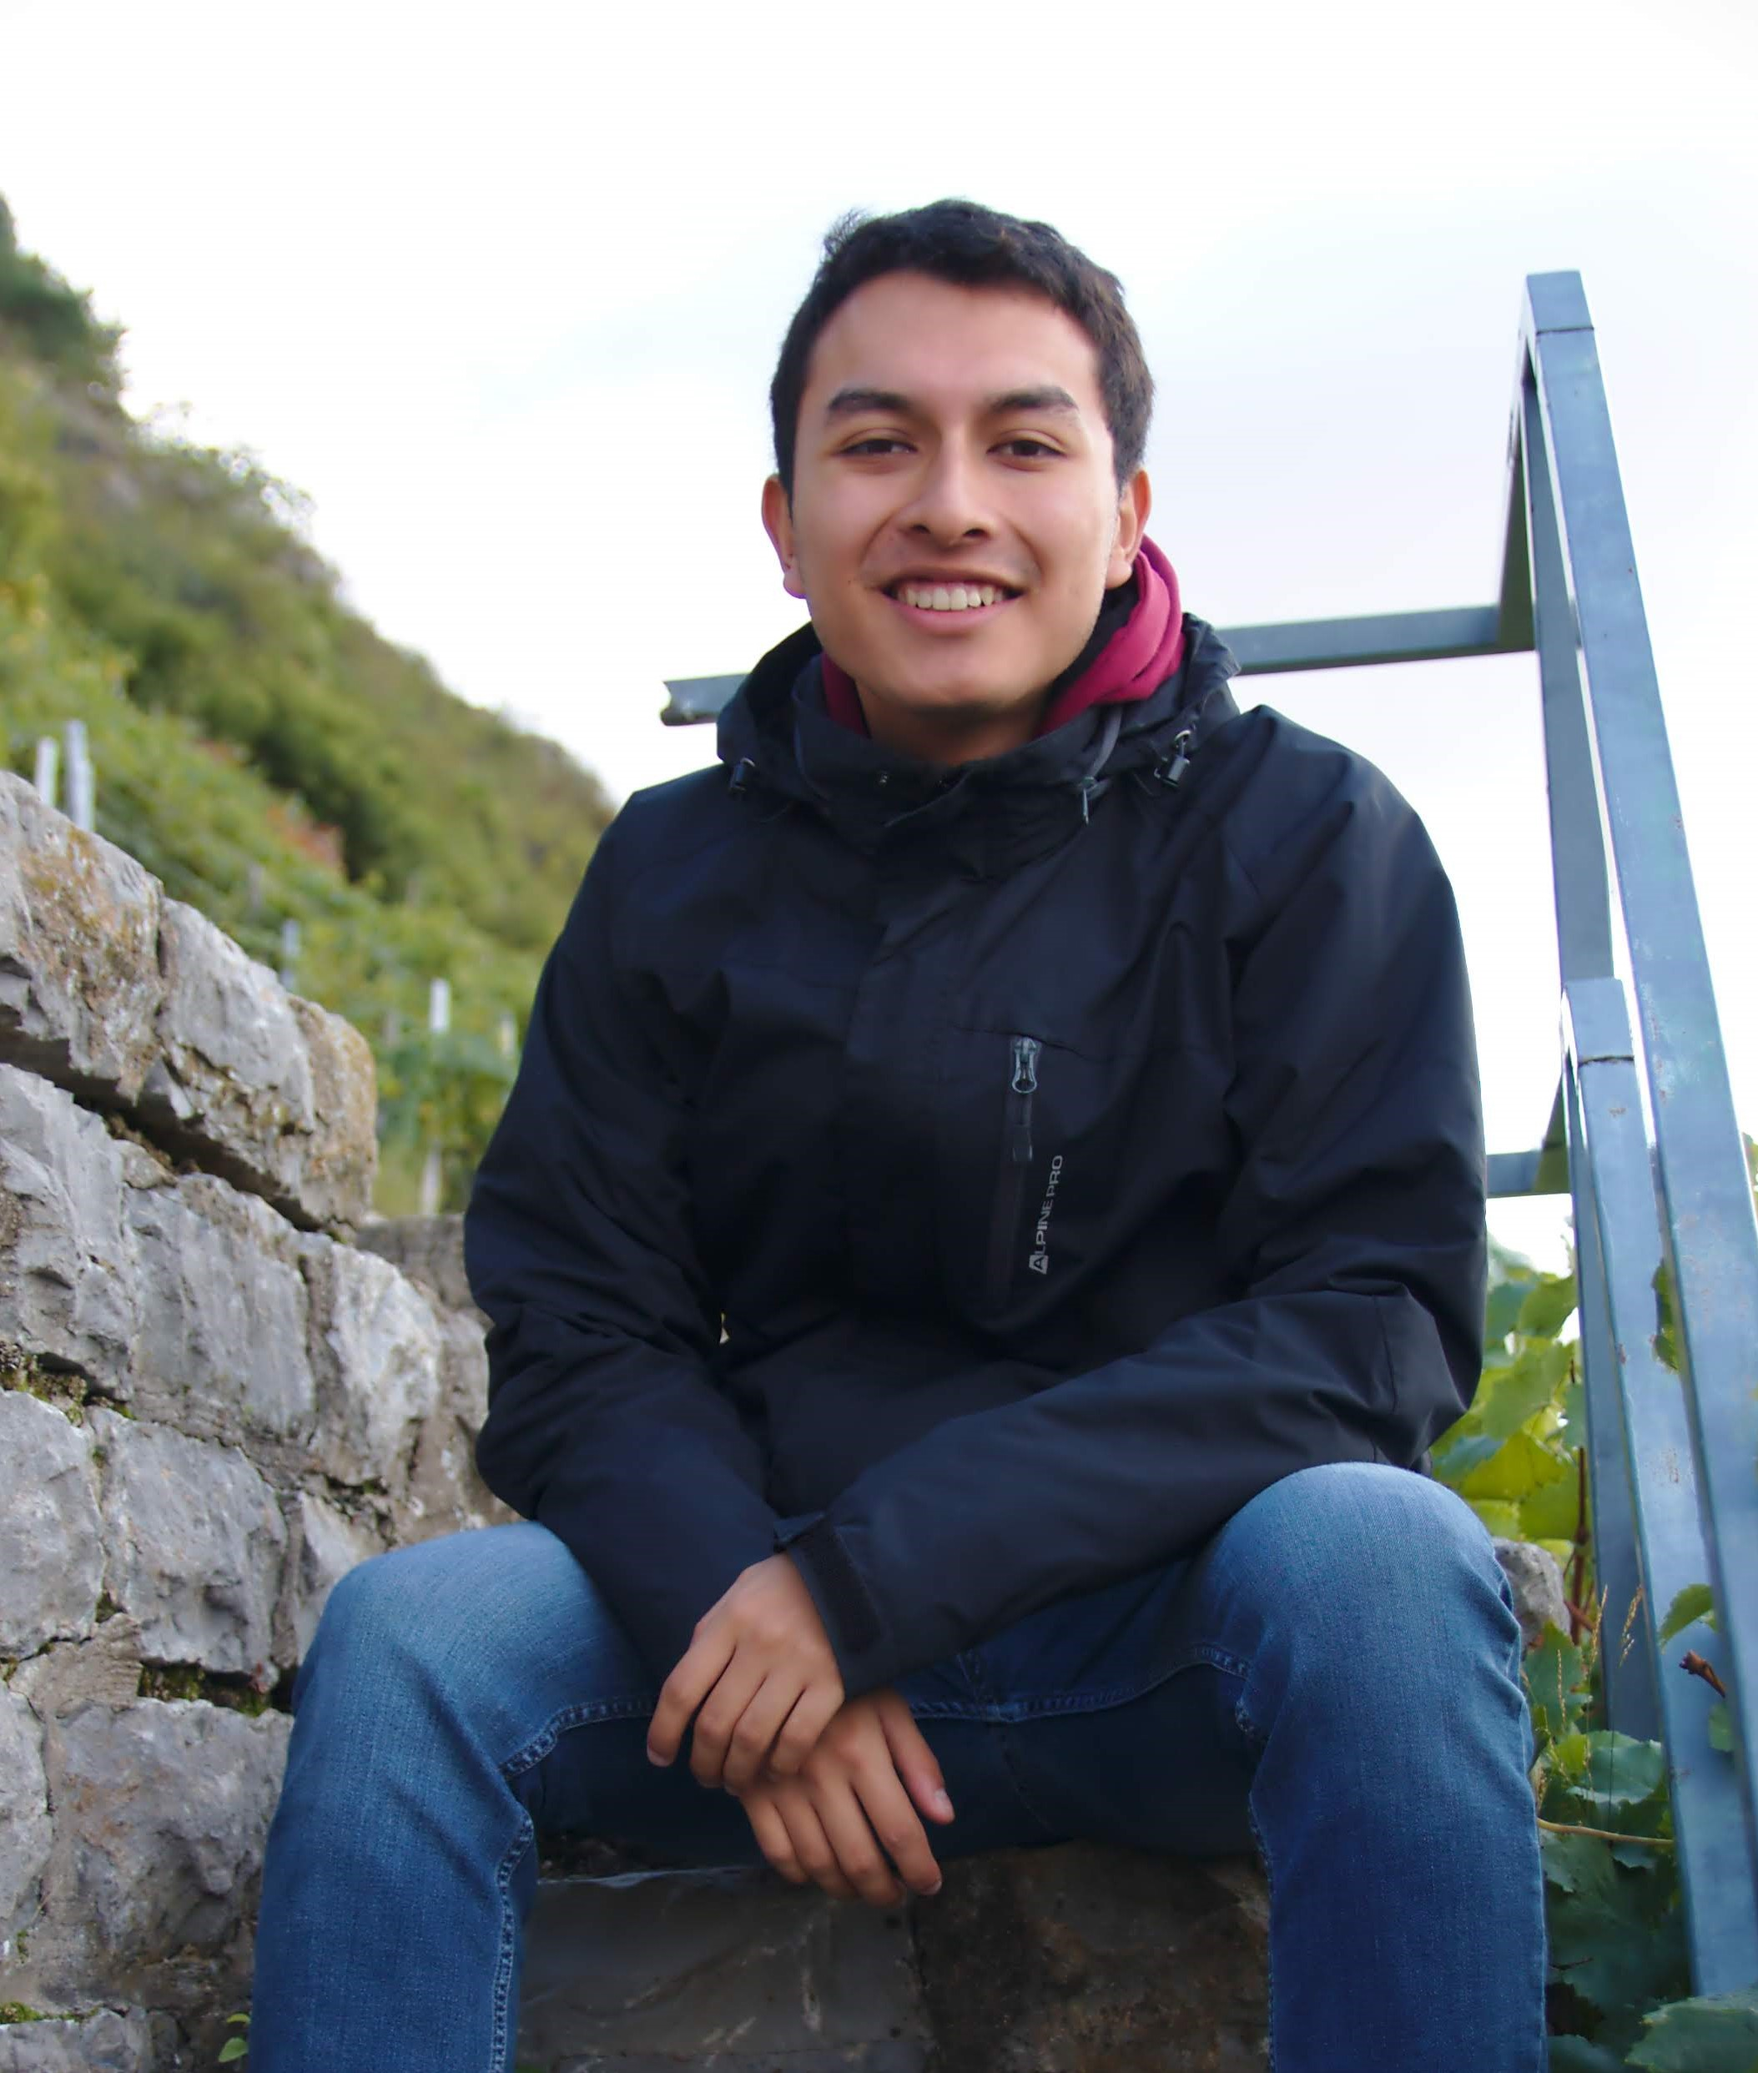
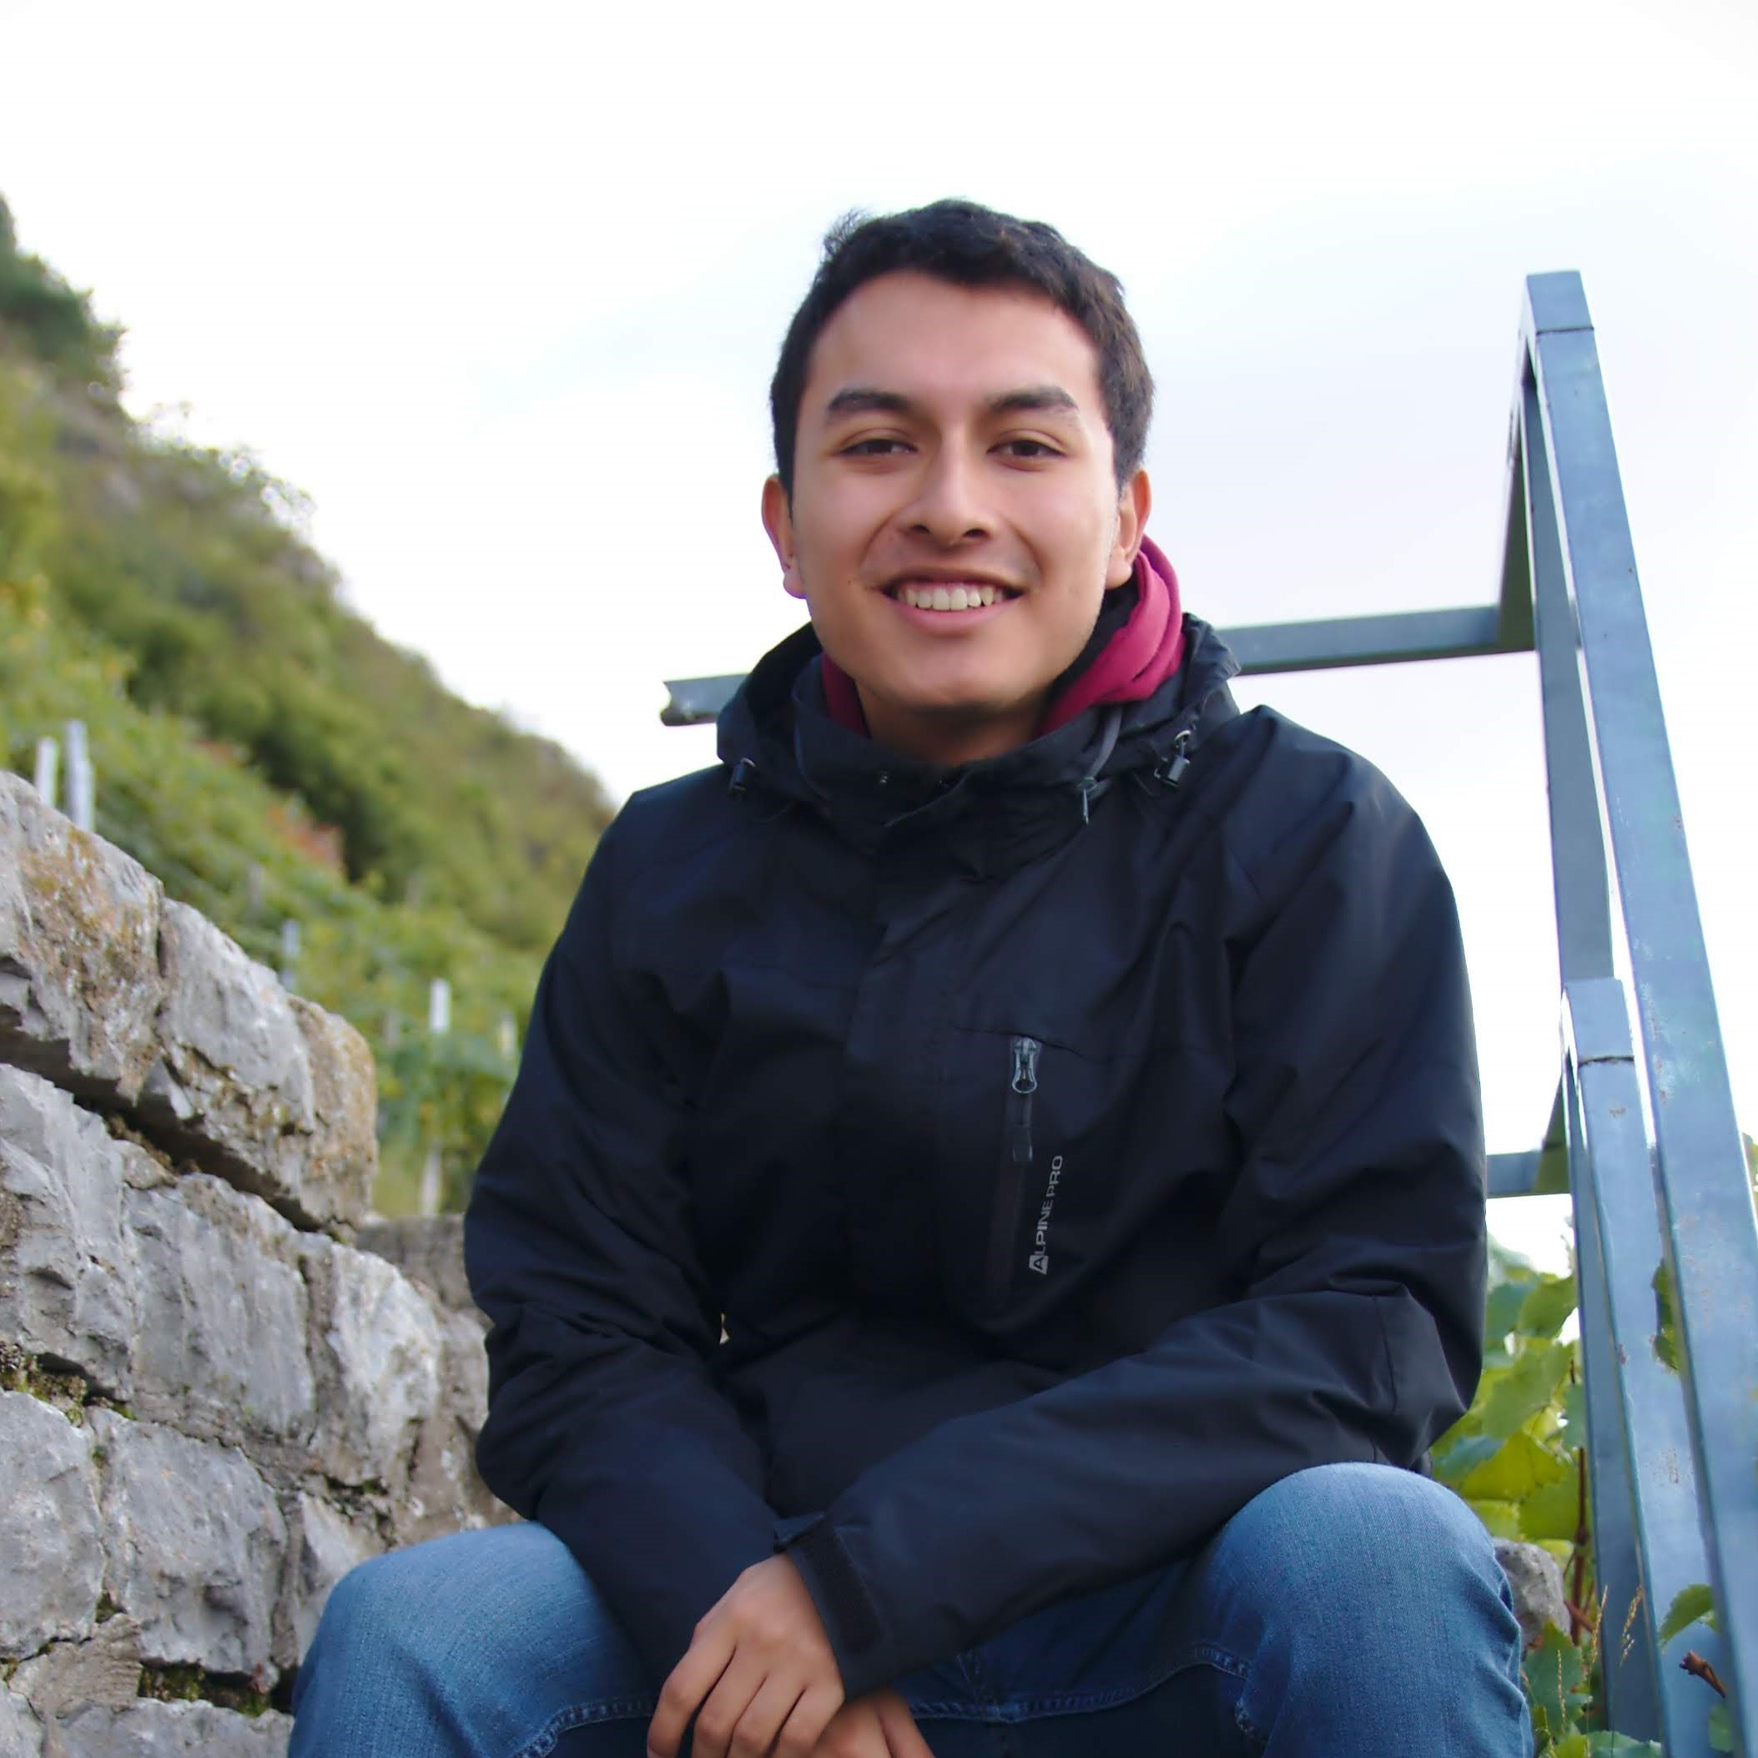
Diseño responsive

diff --git a/src/about/tarjeta/Tarjeta.scss b/src/about/tarjeta/Tarjeta.scss
@@ -1,8 +1,8 @@
 
 .card-vinyl {
     /* styles for the vinyl record card */
-    width: 70%;
-    height: 400px;
+    width: 78%;
+    height: 160%;
     background: #282828;
     border-radius: 0;
     position: relative;
@@ -12,36 +12,32 @@
     };
 .card-image {
     /* create a central square*/
-    width: 30%;
-    height: 28%;
-    background-color: #f3f3f3;
+    width: 45%;
+    height: 25%;
+    background-color: transparent;
     border-radius: 0;
-    position: absolute;
-    top: 15%;
+    position:absolute;
+    top: 20%;
     background-size: cover;
-    left: 34%;
-    box-shadow:
-        inset -5px -5px 5px #fff5,
-        inset 5px 5px 5px #0005;
-
+    left: 30%;
 }
 
 .card-title{
-    font-size: 110%;
+    font-size: 90%;
 }
 .container{
-    width: 100%;
+    width: 80%;
     padding: 0%;
 }
 .card-content {
     /* adjust content style*/
-    padding: 20px;
+    padding: 5%;
     color: #fff;
     background-color: rgba(0, 0, 0, 0.4);
     position: absolute;
     bottom: 0;
     width: 100%;
-    font-size: 1.5rem;
+    font-size: 150%;
     font-weight: bold;
     font-family: 'Arial', sans-serif;
 }
@@ -49,8 +45,8 @@
     /* existing styles */
     background-color: #333;
     border-radius: 0;
-    padding: 5px;
-    font-size: 14px;
+    padding: 2%;
+    font-size: 14%;
     text-align: center;
     font-family: 'Arial', sans-serif;
 }
@@ -58,7 +54,7 @@
     /* existing styles */
     font-weight: bold;
     color: #ccc;
-    margin-right: 15px;
+    margin-right: 5%;
     display:inline-block;
 }
 h3{
@@ -80,11 +76,139 @@ h3{
 .info{
     margin-left: 5%;
     width: 90%;
-    margin-top: 37%;
+    margin-top: 50%;
 
 }
 .texto{
     margin-top: 5%;
     width: 100%;
     font-size: 80%;
+}
+.fotos_about{
+    width: 90%;
+    border-radius: 50%;
+    margin-top: -10%;
+}
+.card-artist{
+    font-size: 80%;
+}
+@media only screen and (max-width: 768px){
+    .card-vinyl{
+        width: 110%;
+    }
+    .container{
+        padding-top: 5%;
+        padding-bottom: 5%;
+    }
+    .card-image{
+        width: 60%;
+        height: 50%;
+        margin-left: -5%;
+    }
+    .card-title{
+        font-size: 90%;
+    }
+    .card-artist{
+        font-size: 60%;
+    }
+    .info{ 
+
+        padding: 10%;
+    }
+    .texto{
+        margin-top: -10%;
+        font-size: 80%;
+    }
+    .iconos{
+        display:flex;
+        align-items: center;
+        justify-content: center;
+        padding-top: 5%;
+        margin-left: 5%;
+        .iconos_redes{
+            width: 30%;
+            font-size: 110%;
+        }
+    }
+    .fotos_about{
+        width: 80%;
+        border-radius: 50%;
+        margin-top: -10%;
+    }
+    .espacio{
+        margin-left: 5%;
+        width: 100%;
+        margin-top: 65%;
+        padding-bottom: 60%;
+    }
+    .card-content {
+        /* adjust content style*/
+        padding: 5%;
+        color: #fff;
+        background-color: rgba(0, 0, 0, 0.4);
+        width: 100%;
+        font-size: 150%;
+        font-weight: bold;
+        font-family: 'Arial', sans-serif;
+    }
+}
+@media only screen and (min-width: 768px) and (max-width: 991px){
+    .card-vinyl{
+        width: 100%;
+    }
+    .container{
+        padding-top: 5%;
+        padding-bottom: 5%;
+    }
+    .card-image{
+        width: 60%;
+        height: 50%;
+        margin-left: -5%;
+    }
+    .card-title{
+        font-size: 90%;
+    }
+    .card-artist{
+        font-size: 60%;
+    }
+    .info{ 
+
+        padding: 10%;
+    }
+    .texto{
+        margin-top: -10%;
+        font-size: 110%;
+    }
+    .iconos{
+        display:flex;
+        align-items: center;
+        justify-content: center;
+        padding-top: 5%;
+        margin-left: 5%;
+        .iconos_redes{
+            width: 30%;
+            font-size: 110%;
+        }
+    }
+    .fotos_about{
+        width: 80%;
+        border-radius: 50%;
+        margin-top: -10%;
+    }
+    .espacio{
+        margin-left: 4%;
+        width: 100%;
+        margin-top: 65%;
+        padding-bottom: 30%;
+    }
+    .card-content {
+        /* adjust content style*/
+        padding: 5%;
+        color: #fff;
+        background-color: rgba(0, 0, 0, 0.4);
+        width: 100%;
+        font-size: 150%;
+        font-weight: bold;
+        font-family: 'Arial', sans-serif;
+    }
 }

diff --git a/src/about/About.jsx b/src/about/About.jsx
@@ -4,16 +4,16 @@ import Tarjeta from './tarjeta/Tarjeta';
 
 const About = () => {
   return (
+    <div className='about'>
     <div className='container'>
         <div className='superiores'>
-            
-            <Tarjeta nombre="Jose Andres Gavilanes" puesto="Full-Stack Developer" foto='./images/Pepe.jpeg' linkG='https://github.com/joseandresgavilanes' linkl='https://www.linkedin.com/in/jose-andres-gavilanes-2954691b5/' linki='https://www.instagram.com/andres_gavilanes1/' detalle="Full Stack (React | Node | Springboot) and pixel-perfect developer with 3 years of experience in UI development."/>
+            <Tarjeta className="primera" nombre="Jose Andres Gavilanes" puesto="Full-Stack Developer" foto='./images/Pepe.jpeg' linkG='https://github.com/joseandresgavilanes' linkl='https://www.linkedin.com/in/jose-andres-gavilanes-2954691b5/' linki='https://www.instagram.com/andres_gavilanes1/' detalle="Full Stack (React | Node | Springboot) and pixel-perfect developer with 3 years of experience in UI development."/>
             <Tarjeta nombre="Alexander Cangas" puesto="Systems engineer" foto='./images/Alexander.jpeg' linkG='https://github.com/xander06' linkl='https://www.linkedin.com/in/alexander-c-00a2967b/' linki='https://www.instagram.com/xander0684/' detalle="Hi, I am a Computer Systems Engineer. Systems Assistant at Vehicle Dealership. Learn Java  and React"/>
-            
             </div>
             <div className='inferior'>
             <Tarjeta nombre="Adrian Bastidas" puesto="Systems engineering student" foto='./images/Adrian.jpg' linkG='https://github.com/Adrian-Bastidas' linkl='https://www.linkedin.com/in/adrian-rafael-bastidas-moya-5b940419b/' linki='https://www.instagram.com/diefarbedelmundo/' detalle="Currently studying at university, I would like to become a full-stack web and mobile developer."/>
             </div>
+    </div>
     </div>
   )
 }

diff --git a/src/about/About.scss b/src/about/About.scss
@@ -1,17 +1,63 @@
-.container{
-    overflow-y: scroll;
-}
-.superiores{
-    width: 90%;
-    display: flex;
-    margin-top: 2%;
-    margin-left: 5%;
-}
-.inferior{
-    width: 45%;
-    display: flex;
-    margin-top: 3%;
-    margin-left: 27%;
-    margin-bottom: 2%;
-}
+@media only screen and (min-width: 991px) {
+    .container{
+        width: 100%;
+        margin-left: 5%;
+    }
+    .about{
+        overflow-y: scroll;
+    }
+    .superiores{
+        width: 95%;
+        height: 30%;
+        display: flex;
+        margin-top: 2%;
+        margin-left: 5%;
+    }
+    .inferior{
+        width: 60%;
+        display: flex;
+        margin-top: 20%;
+        margin-left: 26%;
+        margin-bottom: 2%;
+    }
+  }
+  
 
+
+@media only screen and (max-width: 768px) {
+    .about{
+        overflow-y: scroll;
+    }
+    .superiores{
+        width: 90%;
+        display: block;
+        .primera{
+            padding-bottom: 2%;
+        }
+        margin-top: 3%;
+        margin-left: 30%;
+    }
+    .inferior{
+        width: 90%;
+        margin-left: 30%;
+    }
+  }
+  @media only screen and (min-width: 768px) and (max-width: 991px) {
+    .about{
+        overflow-y: scroll;
+    }
+    .superiores{
+        width: 90%;
+        display: block;
+        .primera{
+            padding-bottom: 2%;
+        }
+        margin-top: 3%;
+        margin-left: 30%;
+    }
+    .inferior{
+        width: 90%;
+        margin-left: 30%;
+    }
+  }
+  

diff --git a/src/about/tarjeta/Tarjeta.jsx b/src/about/tarjeta/Tarjeta.jsx
@@ -9,7 +9,7 @@ const Tarjeta = (props) => {
         <div className='container'>
             <div class="card-vinyl">
                 <div className='card_image_container'>
-                <div class="card-image" style={{ backgroundImage: `url(${imgUrl})` }}></div>
+                <div class="card-image" ><img className='fotos_about' src={imgUrl}/></div>
                 </div>
                 <div class="card-content">
                     <h2 class="card-title">{props.nombre}</h2>
@@ -31,8 +31,10 @@ const Tarjeta = (props) => {
                         <h1><span>Meet me</span></h1>
                     </div>
                 </div>
+                <div className='espacio'>
                 <div className='info'>
                     <p className='texto'>{props.detalle}</p>
+                </div>
                 </div>
             </div>
         </div>
